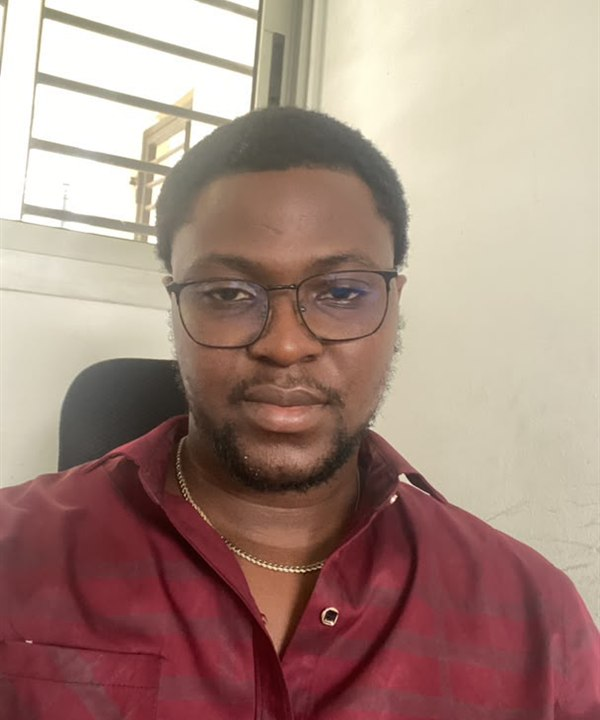
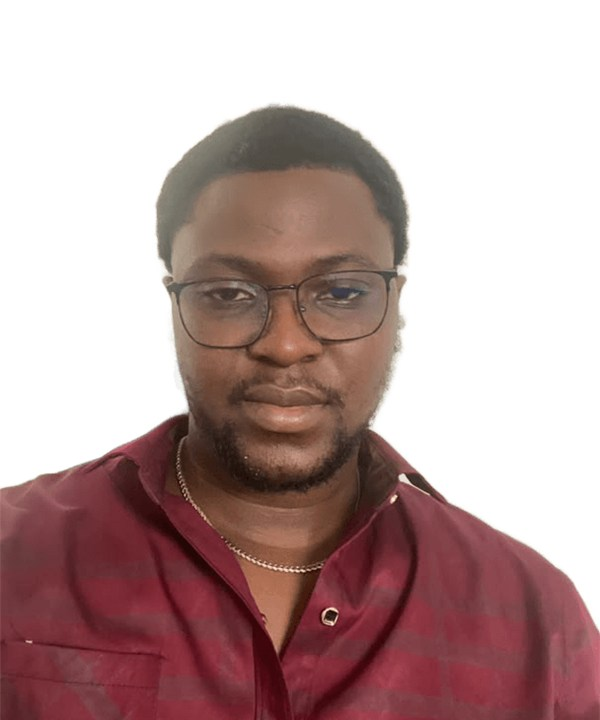
Carte DevOps : nouvel objet (nuage + serveur) avec effet scan, photo du CV sur fond blanc

diff --git a/client/src/components/CardBot.jsx b/client/src/components/CardBot.jsx
@@ -76,21 +76,25 @@ function Mechanic() {
   );
 }
 
-/** Petit robot sphérique en vol stationnaire au-dessus de la carte. */
-function Scanner() {
+/** Nuage qui déploie sur un serveur, lequel balaie la carte avec un faisceau (Maintenance & DevOps). */
+function Deploy() {
   return (
     <g className="cb-bob">
-      <line className="l" x1="60" y1="8" x2="60" y2="2" />
-      <circle className="o cb-led" cx="60" cy="2" r="2" />
-      <circle className="s" cx="60" cy="22" r="14" />
-      <circle className="g cb-eye" cx="60" cy="24" r="4" />
-      <path className="l" d="M46 22 L38 18 M74 22 L82 18" />
-      <path className="s" d="M52 35 L60 40 L68 35" />
+      <path className="cb-beam" d="M60 56 L18 80 L102 80 Z" />
+      <path className="s" d="M42 26 a8 8 0 0 1 2 -15 a12 12 0 0 1 23 -3 a10 10 0 0 1 11 18 Z" />
+      <line className="l cb-tether" x1="60" y1="27" x2="60" y2="37" />
+      <path className="l" d="M56 34 L60 38 L64 34" />
+      <rect className="s" x="42" y="40" width="36" height="8" rx="2" />
+      <rect className="s" x="42" y="48" width="36" height="8" rx="2" />
+      <circle className="o cb-led" cx="48" cy="44" r="1.6" />
+      <circle className="g cb-eye" cx="48" cy="52" r="1.6" />
+      <line className="l" x1="56" y1="44" x2="72" y2="44" />
+      <line className="l" x1="56" y1="52" x2="72" y2="52" />
     </g>
   );
 }
 
-const BOTS = [Carrier, Drone, Mechanic, Scanner];
+const BOTS = [Carrier, Drone, Mechanic, Deploy];
 const PLACES = ['cb-left', 'cb-right', 'cb-corner', 'cb-left'];
 
 export default function CardBot({ index }) {
@@ -103,4 +107,7 @@ export default function CardBot({ index }) {
     </span>
   );
 }
+
+/** La 4ᵉ variante fait aussi passer une ligne de balayage sur la carte. */
+export const scansCard = (index) => index % BOTS.length === 3;
 

diff --git a/client/src/styles.css b/client/src/styles.css
@@ -705,6 +705,10 @@ kbd { font-family: var(--f-mono); font-size: 10px; border: 1px solid var(--line)
 .cb-d2 { animation-delay: 0.2s; --sx: 5px; }
 .cb-d3 { animation-delay: 0.4s; --sx: -3px; }
 .cb-eye { animation: cb-led 1.8s ease-in-out infinite; }
+.cb-beam { fill: color-mix(in srgb, currentColor 16%, transparent); animation: cb-beam 1.8s ease-in-out infinite alternate; }
+.svc.scan::after { content: ''; position: absolute; left: 0; right: 0; top: 0; height: 2px; pointer-events: none; background: linear-gradient(90deg, transparent, var(--accent), transparent); box-shadow: 0 0 14px var(--accent); opacity: 0.55; animation: svc-scan 3.6s ease-in-out infinite; }
+@keyframes cb-beam { from { opacity: 0.35; } to { opacity: 0.8; } }
+@keyframes svc-scan { 0% { top: 0; } 50% { top: calc(100% - 2px); } 100% { top: 0; } }
 @keyframes cb-bob { to { transform: translateY(-2px); } }
 @keyframes cb-blink { 0%, 94%, 100% { transform: scaleY(1); } 96% { transform: scaleY(0.1); } }
 @keyframes cb-led { 50% { opacity: 0.25; } }
@@ -716,7 +720,8 @@ kbd { font-family: var(--f-mono); font-size: 10px; border: 1px solid var(--line)
 @keyframes cb-spark { 0% { opacity: 1; transform: translate(0, 0); } 100% { opacity: 0; transform: translate(var(--sx, -5px), -9px); } }
 @keyframes cb-flicker { 0%, 90%, 92%, 95%, 100% { opacity: 1; } 91% { opacity: 0.5; } 94% { opacity: 0.75; } }
 @media (prefers-reduced-motion: reduce) {
-  .cardbot, .cardbot * { animation: none !important; }
+  .cardbot, .cardbot *, .svc.scan::after { animation: none !important; }
+  .svc.scan::after { display: none; }
   .cb-spark { opacity: 0; }
 }
 

diff --git a/client/src/components/Services.jsx b/client/src/components/Services.jsx
@@ -1,6 +1,6 @@
 import SectionHead from './SectionHead.jsx';
 import Reveal from './Reveal.jsx';
-import CardBot from './CardBot.jsx';
+import CardBot, { scansCard } from './CardBot.jsx';
 
 export default function Services({ services }) {
   const ask = (title) => {
@@ -20,7 +20,7 @@ export default function Services({ services }) {
         <SectionHead addr="0x02" title="Services" />
         <div className="services">
           {services.map((s, i) => (
-            <Reveal as="article" className={`svc ${s.featured ? 'featured' : ''}`} key={s.code}>
+            <Reveal as="article" className={`svc ${s.featured ? 'featured' : ''} ${scansCard(i) ? 'scan' : ''}`} key={s.code}>
               <CardBot index={i} />
               <div className="svc-top">
                 <span className="addr">{s.code}</span>
